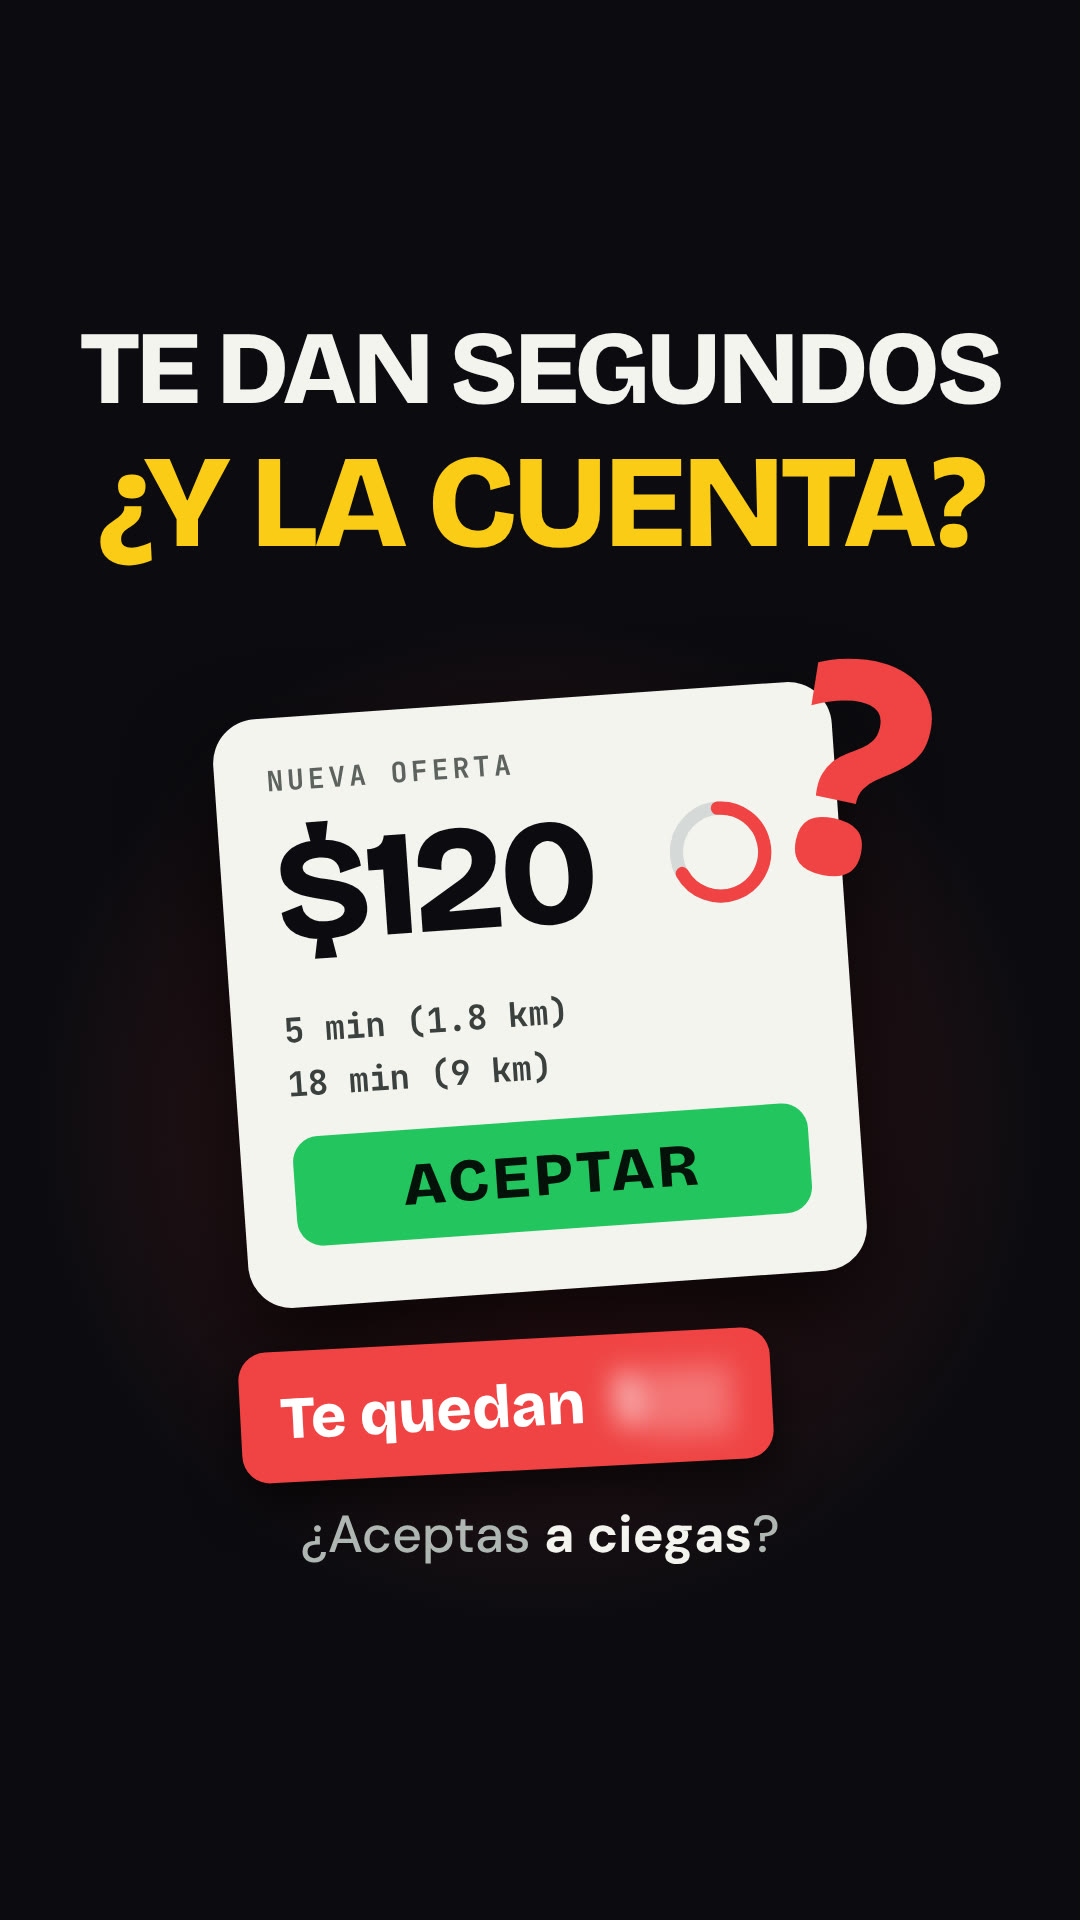
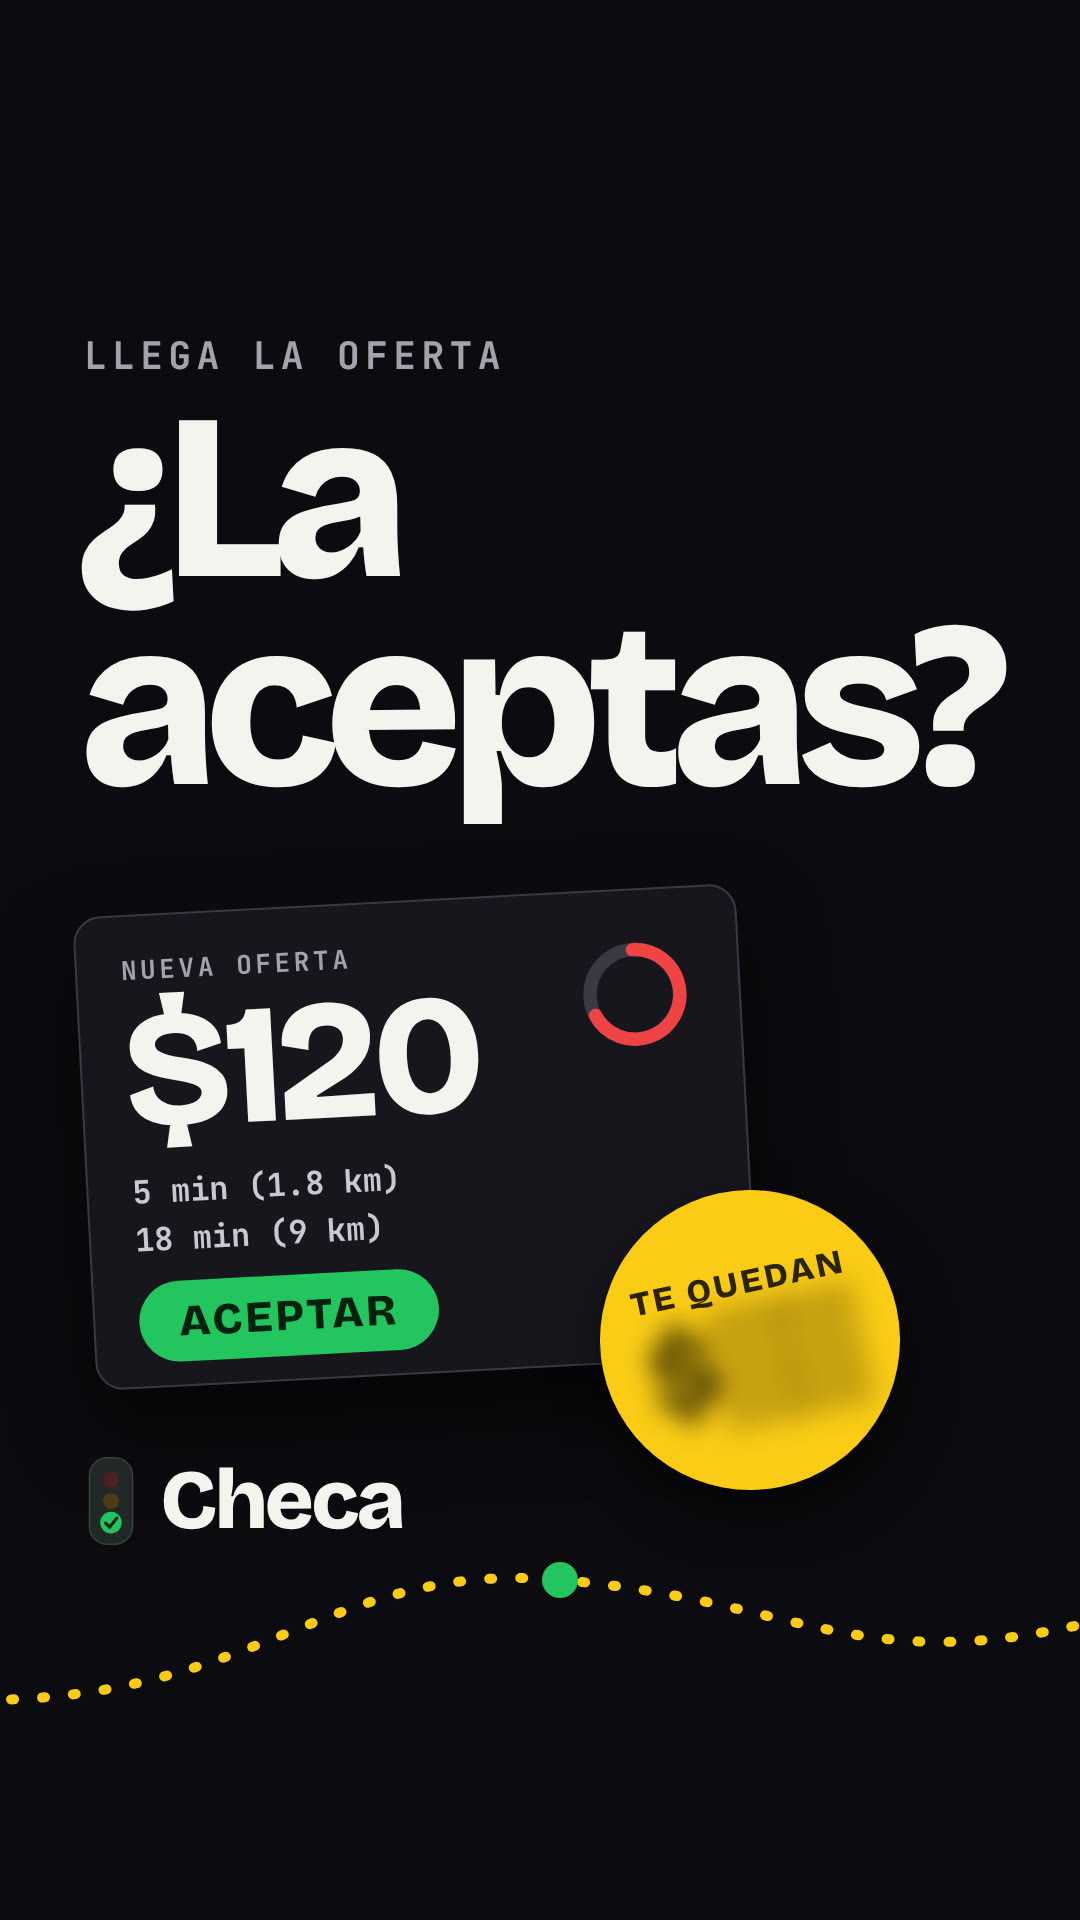
08 v2 (PERSONAL): portada rehecha con el estilo de la marca v2 [skip ci]
Claude-Session: https://claude.ai/code/session_01ABVVpV5ELcWFVy1aoqD3tb

Changed region(s): [[0.0611, 0.1562, 0.9472, 0.8438], [0.0611, 0.75, 0.1222, 0.8125]]

diff --git a/video/hyperframes/decidir-v2/portada/portada.html b/video/hyperframes/decidir-v2/portada/portada.html
@@ -1,33 +1,29 @@
 <!doctype html><html><head><meta charset="utf-8"><style>
 @font-face{font-family:BG;src:url('../assets/fonts/bricolage-grotesque-latin-800-normal.woff2');font-weight:800}
 @font-face{font-family:DM;src:url('../assets/fonts/dm-sans-latin-500-normal.woff2');font-weight:500}
-@font-face{font-family:DM;src:url('../assets/fonts/dm-sans-latin-700-normal.woff2');font-weight:700}
 @font-face{font-family:JB;src:url('../assets/fonts/jetbrains-mono-latin-700-normal.woff2');font-weight:700}
-html,body{margin:0;width:1080px;height:1920px;overflow:hidden;background:#0C0C10;font-family:DM}
-.glow{position:absolute;left:-100px;top:620px;width:1280px;height:1000px;background:radial-gradient(circle,rgba(239,68,68,.26),rgba(0,0,0,0) 62%)}
-.t{position:absolute;left:0;right:0;text-align:center;font-family:BG;font-weight:800;letter-spacing:-.04em;line-height:.95;text-transform:uppercase}
-.t1{top:320px;font-size:104px;color:#F4F4EF}
-.t2{top:440px;font-size:132px;color:#FACC15}
-.card{position:absolute;left:230px;top:700px;width:620px;height:590px;border-radius:44px;background:#F4F4EF;transform:rotate(-4deg);box-shadow:0 40px 90px rgba(0,0,0,.8)}
-.card .k{position:absolute;left:52px;top:44px;font-family:JB;font-size:28px;letter-spacing:.14em;color:#5C635F;text-transform:uppercase}
-.card .fare{position:absolute;left:52px;top:100px;font-family:BG;font-weight:800;font-size:150px;letter-spacing:-.04em;color:#0C0C10;line-height:1}
-.card svg{position:absolute;left:445px;top:110px;width:110px;height:110px}
-.card .d{position:absolute;left:52px;font-family:JB;font-size:34px;color:#3A403D}
-.card .d1{top:290px}.card .d2{top:344px}
-.card .btn{position:absolute;left:52px;right:52px;top:420px;height:110px;border-radius:26px;background:#22C55E;color:#04120A;display:flex;align-items:center;justify-content:center;font-family:BG;font-weight:800;font-size:60px;letter-spacing:.06em}
-.tag{position:absolute;left:240px;top:1340px;transform:rotate(-3deg);background:#EF4444;color:#fff;border-radius:28px;padding:26px 40px;font-family:BG;font-size:60px;font-weight:800;box-shadow:0 20px 50px rgba(0,0,0,.7)}
-.tag span{font-family:JB;filter:blur(14px);display:inline-block;margin-left:12px}
-.q{position:absolute;left:790px;top:610px;font-family:BG;font-size:320px;font-weight:800;color:#EF4444;transform:rotate(12deg);line-height:1}
-.sub{position:absolute;left:0;right:0;top:1500px;text-align:center;font-size:52px;font-weight:500;color:#AFB7B2}
-.sub b{color:#F4F4EF;font-weight:700}
+html,body{margin:0;width:1080px;height:1920px;overflow:hidden;background:#0C0C10;font-family:DM;color:#F4F4EF}
+.road{position:absolute;left:0;top:0}
+.k{position:absolute;left:84px;top:330px;font-family:JB;font-weight:700;font-size:38px;letter-spacing:.14em;color:#A3A3AD}
+.t{position:absolute;left:78px;top:395px;font-family:BG;font-weight:800;font-size:236px;line-height:.88;letter-spacing:-.06em}
+.card{position:absolute;left:84px;top:900px;width:660px;height:470px;border-radius:28px;background:#16161C;border:2px solid #3A3A45;transform:rotate(-3deg);box-shadow:0 40px 80px rgba(0,0,0,.6)}
+.card .l{position:absolute;left:44px;top:36px;font-family:JB;font-weight:700;font-size:26px;letter-spacing:.14em;color:#A3A3AD}
+.card .f{position:absolute;left:40px;top:70px;font-family:BG;font-weight:800;font-size:170px;letter-spacing:-.05em;line-height:1}
+.card svg{position:absolute;left:500px;top:48px;width:112px;height:112px}
+.card .d{position:absolute;left:44px;top:252px;font-family:JB;font-weight:700;font-size:32px;color:#C9C9D1;line-height:1.5}
+.card .b{position:absolute;left:44px;top:366px;background:#22C55E;color:#04210F;border-radius:999px;padding:14px 40px;font-family:BG;font-weight:800;font-size:44px;letter-spacing:.06em}
+.sello{position:absolute;left:600px;top:1190px;width:300px;height:300px;border-radius:50%;background:#FACC15;color:#2B2200;display:flex;flex-direction:column;align-items:center;justify-content:center;transform:rotate(-12deg);font-family:BG;font-weight:800;line-height:1;box-shadow:0 24px 50px rgba(0,0,0,.6)}
+.sello .a{font-size:34px;letter-spacing:.08em}
+.sello .n{font-size:110px;letter-spacing:-.04em;filter:blur(13px);margin-top:6px}
+.logo{position:absolute;left:84px;top:1450px;display:flex;align-items:center;gap:22px}
+.logo span{font-family:BG;font-weight:800;font-size:84px;letter-spacing:-.04em}
 </style></head><body>
-<div class="glow"></div>
-<div class="t t1">Te dan segundos</div>
-<div class="t t2">¿y la cuenta?</div>
-<div class="card"><div class="k">Nueva oferta</div><div class="fare">$120</div>
-<svg viewBox="0 0 100 100" fill="none"><circle cx="50" cy="50" r="40" stroke="#D5D9D7" stroke-width="12"/><path d="M50 10 A40 40 0 1 1 14 67" stroke="#EF4444" stroke-width="12" stroke-linecap="round"/></svg>
-<div class="d d1">5 min (1.8 km)</div><div class="d d2">18 min (9 km)</div><div class="btn">ACEPTAR</div></div>
-<div class="q">?</div>
-<div class="tag">Te quedan <span>$▒▒</span></div>
-<div class="sub">¿Aceptas <b>a ciegas</b>?</div>
+<svg class="road" width="1080" height="1920" viewBox="0 0 1080 1920" aria-hidden="true"><path d="M-20 1700C260 1700 330 1560 560 1580C800 1600 860 1680 1100 1620" fill="none" stroke="#FACC15" stroke-width="10" stroke-dasharray="3 28" stroke-linecap="round"/><circle cx="560" cy="1580" r="18" fill="#22C55E"/></svg>
+<div class="k">LLEGA LA OFERTA</div>
+<div class="t">¿La<br>aceptas?</div>
+<div class="card"><div class="l">NUEVA OFERTA</div><div class="f">$120</div>
+<svg viewBox="0 0 100 100" fill="none"><circle cx="50" cy="50" r="40" stroke="#3A3A45" stroke-width="12"/><path d="M50 10 A40 40 0 1 1 14 67" stroke="#EF4444" stroke-width="12" stroke-linecap="round"/></svg>
+<div class="d">5 min (1.8 km)<br>18 min (9 km)</div><div class="b">ACEPTAR</div></div>
+<div class="sello"><div class="a">TE QUEDAN</div><div class="n">$▒▒</div></div>
+<div class="logo"><svg width="54" height="90" viewBox="0 0 60 100" aria-hidden="true"><rect x="6" y="2" width="48" height="96" rx="20" fill="#222826" stroke="#3A423F" stroke-width="1.6"/><circle cx="30" cy="26" r="9" fill="#4A2222"/><circle cx="30" cy="50" r="9" fill="#4A3C16"/><circle cx="30" cy="74" r="12" fill="#22C55E"/><path d="M24 74.5l4.5 4.5L36.5 69" fill="none" stroke="#04210F" stroke-width="3.4" stroke-linecap="round" stroke-linejoin="round"/></svg><span>Checa</span></div>
 </body></html>
